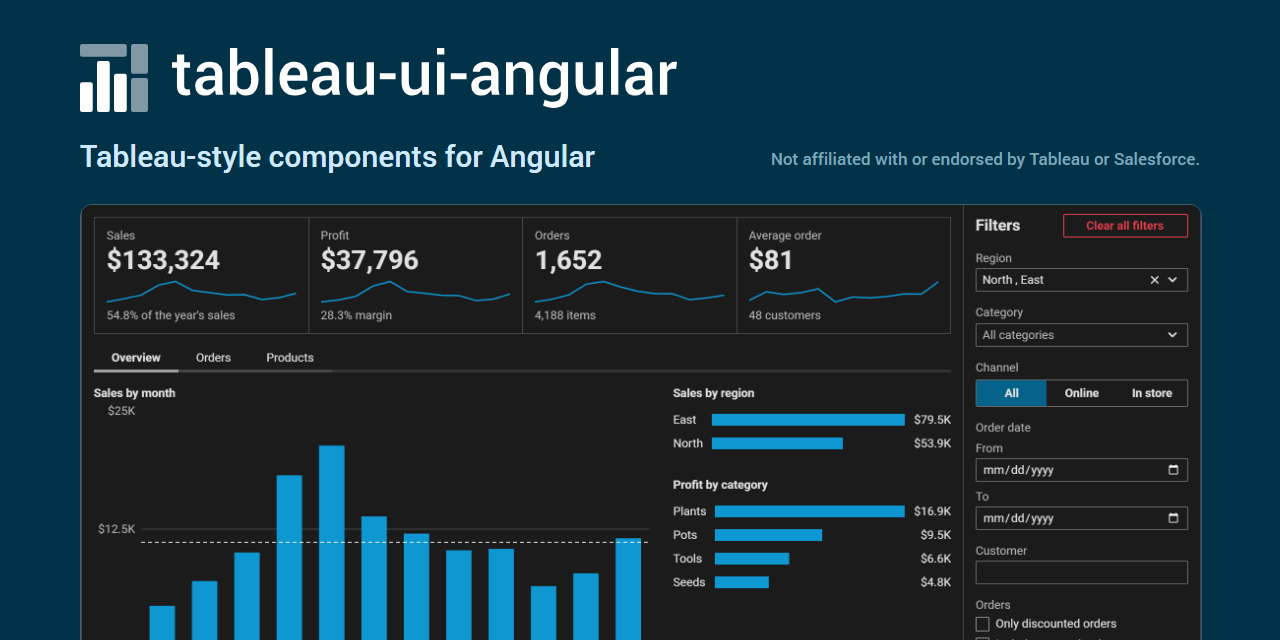
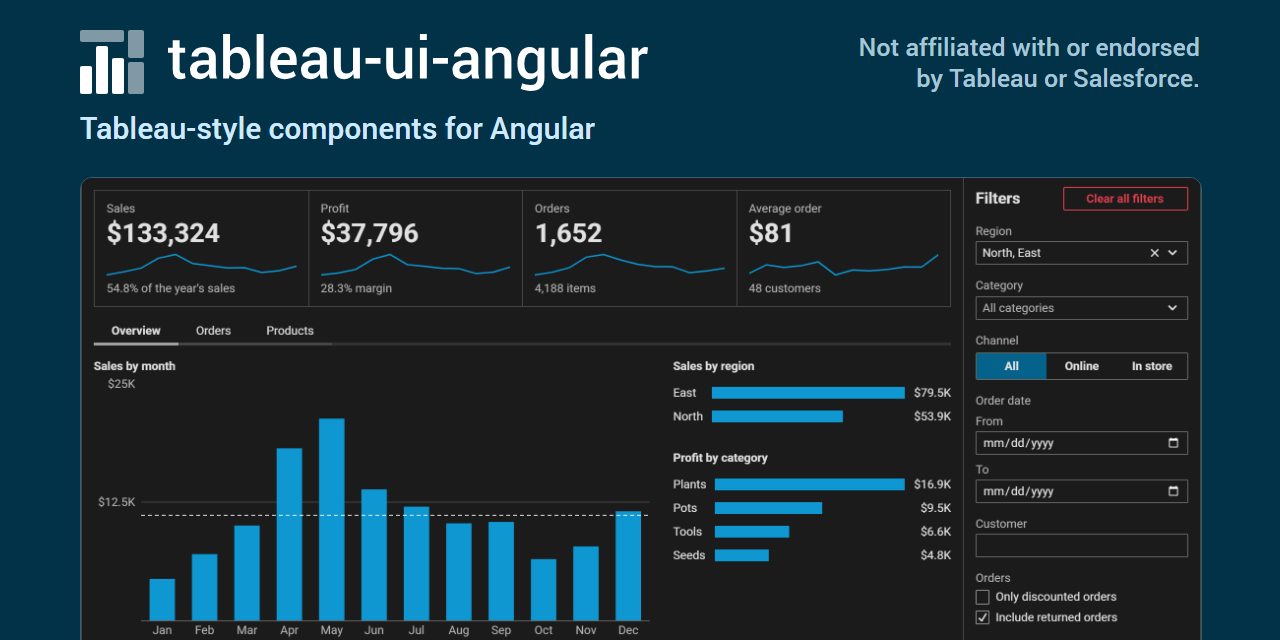
Retake the README's dashboard and the social preview from main, and link the dashboard page
The screenshots showed the multi select's space before the comma, which main has fixed, and the
dashboard page is on main now, so the README's caption links it. The social preview's crop ends
below the month labels instead of cutting through a row, and its not-affiliated line is large
enough to read in a 500 px wide link preview.

Refs #24

diff --git a/docs/plans/2026-10-28-modernization.md b/docs/plans/2026-10-28-modernization.md
@@ -558,9 +558,9 @@ API; the rows after it stay proposed.
 | S11 (#98)    | The wordmark is the npm name, "tableau-ui-angular", as outlines of Roboto Medium, the font the docs site falls back to and the screenshots show; `logo-light.svg` and `logo-dark.svg` differ in the blue and the text                                                                                                                         | No font is embedded, so GitHub, npm and a browser draw the same shapes; an SVG in an `<img>` follows the OS, not GitHub's theme, so each theme gets its file                                                                                                                           | One SVG with a media query; text with a font                                                                      | proposed |
 | S11 (#98)    | The docs site's header draws the mark inline, coloured by the theme's variables, in the closed bar too, with the name beside it while the bar is open; a spec compares its rectangles with `docs/assets/mark.svg`                                                                                                                             | An `<img>` would follow the OS, not the site's own theme switch; the closed bar showed nothing at its top                                                                                                                                                                              | An `<img>` of the mark; the header only while the bar is open                                                     | proposed |
 | S11 (#98)    | The favicon is `docs/assets/mark.svg`, which an `angular.json` asset entry serves as `mark.svg`, light or dark as the OS is; `favicon.ico` (16, 32, 48 px, the light blue) is drawn from the same rectangles, and its link says `sizes="32x32"`                                                                                               | One file holds the mark; the `.ico` is for a browser that takes no SVG icon. Round 1: Chromium keeps an `.ico` whose `sizes` name 16 and 32 over the SVG, so a dark browser showed the light `.ico`                                                                                    | A copy of the SVG in `public/`; a PNG fallback; `sizes` naming each of the `.ico`'s frames                        | proposed |
-| S11 (#98)    | The README's dashboard is a `<picture>` with a caption that links to the docs site, its root until #94 merges and adds the dashboard page; the not-affiliated line stays under the description, before the badges                                                                                                                             | GitHub's renderer moves a picture's image out of a link around it (`gh api markdown`), which drops the dark source and links the image to its own file                                                                                                                                 | A link around the `<picture>`; a linked `<img>`, light only                                                       | proposed |
+| S11 (#98)    | The README's dashboard is a `<picture>` with a caption that links to the docs site's dashboard page, which #94 added; the not-affiliated line stays under the description, before the badges                                                                                                                                                  | GitHub's renderer moves a picture's image out of a link around it (`gh api markdown`), which drops the dark source and links the image to its own file                                                                                                                                 | A link around the `<picture>`; a linked `<img>`, light only                                                       | proposed |
 | S11 (#98)    | The badges: npm's version, `ci.yml` on `main` (GitHub's own badge), the licence as npm has it, labelled "licence" as the README's heading is, downloads a month, and the docs site in the theme's blue                                                                                                                                        | The licence badge reads the published package, which says MIT from 0.2.0                                                                                                                                                                                                               | GitHub's licence detection                                                                                        | proposed |
-| S11 (#98)    | The README's screenshots are the dark and light Overview at 1600 px, 256-colour PNGs of 92 and 81 kB; the social preview, 93 kB, puts the dark one from the KPI tiles down below the mark, the name, a tagline and the not-affiliated line, on the light theme's darkest blue (`#023248`)                                                     | Flat UI keeps its colours in 256; the card names Tableau, so it says it is not affiliated; the filter panel shows the controls, which the title and toolbar cropped away leave room for                                                                                                | The dashboard beside the text, smaller and without the panel; JPEG                                                | proposed |
+| S11 (#98)    | The README's screenshots are the dark and light Overview at 1600 px, 256-colour PNGs of 92 and 81 kB; the social preview, 103 kB, sets the dark one from the KPI tiles to the month labels below the mark, the name and a tagline, with the not-affiliated line beside the name, on `#023248`                                                 | Flat UI keeps its colours in 256; the card names Tableau, so it says it is not affiliated, large enough to read at 500 px wide (round 1); its crop ends between whole rows, and keeps the filter panel                                                                                 | The dashboard beside the text, smaller and without the panel; JPEG                                                | proposed |
 | S11 (#98)    | `docs-pages.spec.ts` checks the README's image URLs name the files in `docs/assets/`, the logos hold no text or font, and the screenshots are 1600 px wide and under 300 kB, read through a `?bytes` import; `app.component.spec.ts` checks the header and the favicon's wiring                                                               | An absolute URL to a missing file would break only after the merge; each check failed once its subject was broken, in Chromium and Firefox                                                                                                                                             | No check                                                                                                          | proposed |
 | S11 (#98)    | The scripts that drew the files, Python with fontTools and Pillow, stay out of the repo; no CHANGELOG line                                                                                                                                                                                                                                    | One-off artwork, and Python is in no lane; nothing an app uses changes                                                                                                                                                                                                                 | A script in `tools/`; a Changed line                                                                              | proposed |
 | S12 (#86)    | The MIT copyright line is "2024-2026 the tableau-ui-angular contributors", 2024 being the first commit's year; CHANGELOG lists the licence under Changed, not Breaking, and says 0.1.129 and earlier stay AGPL-3.0-only                                                                                                                       | D2 names the holders, as WriteableFileProviders and Tableau.Api do; MIT takes nothing an AGPL user had, and a released version keeps its licence                                                                                                                                       | The holders' names; a Breaking line                                                                               | proposed |
@@ -826,7 +826,12 @@ API; the rows after it stay proposed.
   social preview. The README opens with the logo, the badges and the dashboard, light or dark as the reader's GitHub
   theme is, and npm shows the light ones; the docs site's nav bar shows the mark, with the name while it is open, and
   the favicon is the mark. Specs check the README's images and the header's mark against the files, each failing once
-  its subject was broken. The dashboard caption links the site's root until #94 adds the page.
+  its subject was broken. The dashboard caption links the dashboard page, which #94 added.
+- 2026-10-31, S11 review round 1 (#98, one reviewer, at `4971970`): clean, three minors, all fixed on the branch.
+  Chromium kept the `.ico` over the SVG, since its link's `sizes` named 16 and 32, so a dark browser showed the light
+  icon: the link says `32x32`, and the app spec pins it. The screenshots and the card are retaken from main after #100
+  and #94, so the Region select reads "North, East", and the caption links the dashboard page; the card's crop ends
+  below the month labels, a whole row, and its not-affiliated line reads at 500 px wide.
 
 ## For the maintainers
 

diff --git a/README.md b/README.md
@@ -21,7 +21,7 @@ Not affiliated with or endorsed by Tableau or Salesforce.
   <img src="https://raw.githubusercontent.com/serionist/tableau-ui-angular/main/docs/assets/dashboard-light.png" alt="A garden shop's sales dashboard, built with the library's components" />
 </picture>
 
-A dashboard built with the components, [running on the docs site](https://serionist.github.io/tableau-ui-angular/).
+A dashboard built with the components, [running on the docs site](https://serionist.github.io/tableau-ui-angular/dashboard).
 
 ## Install
 
